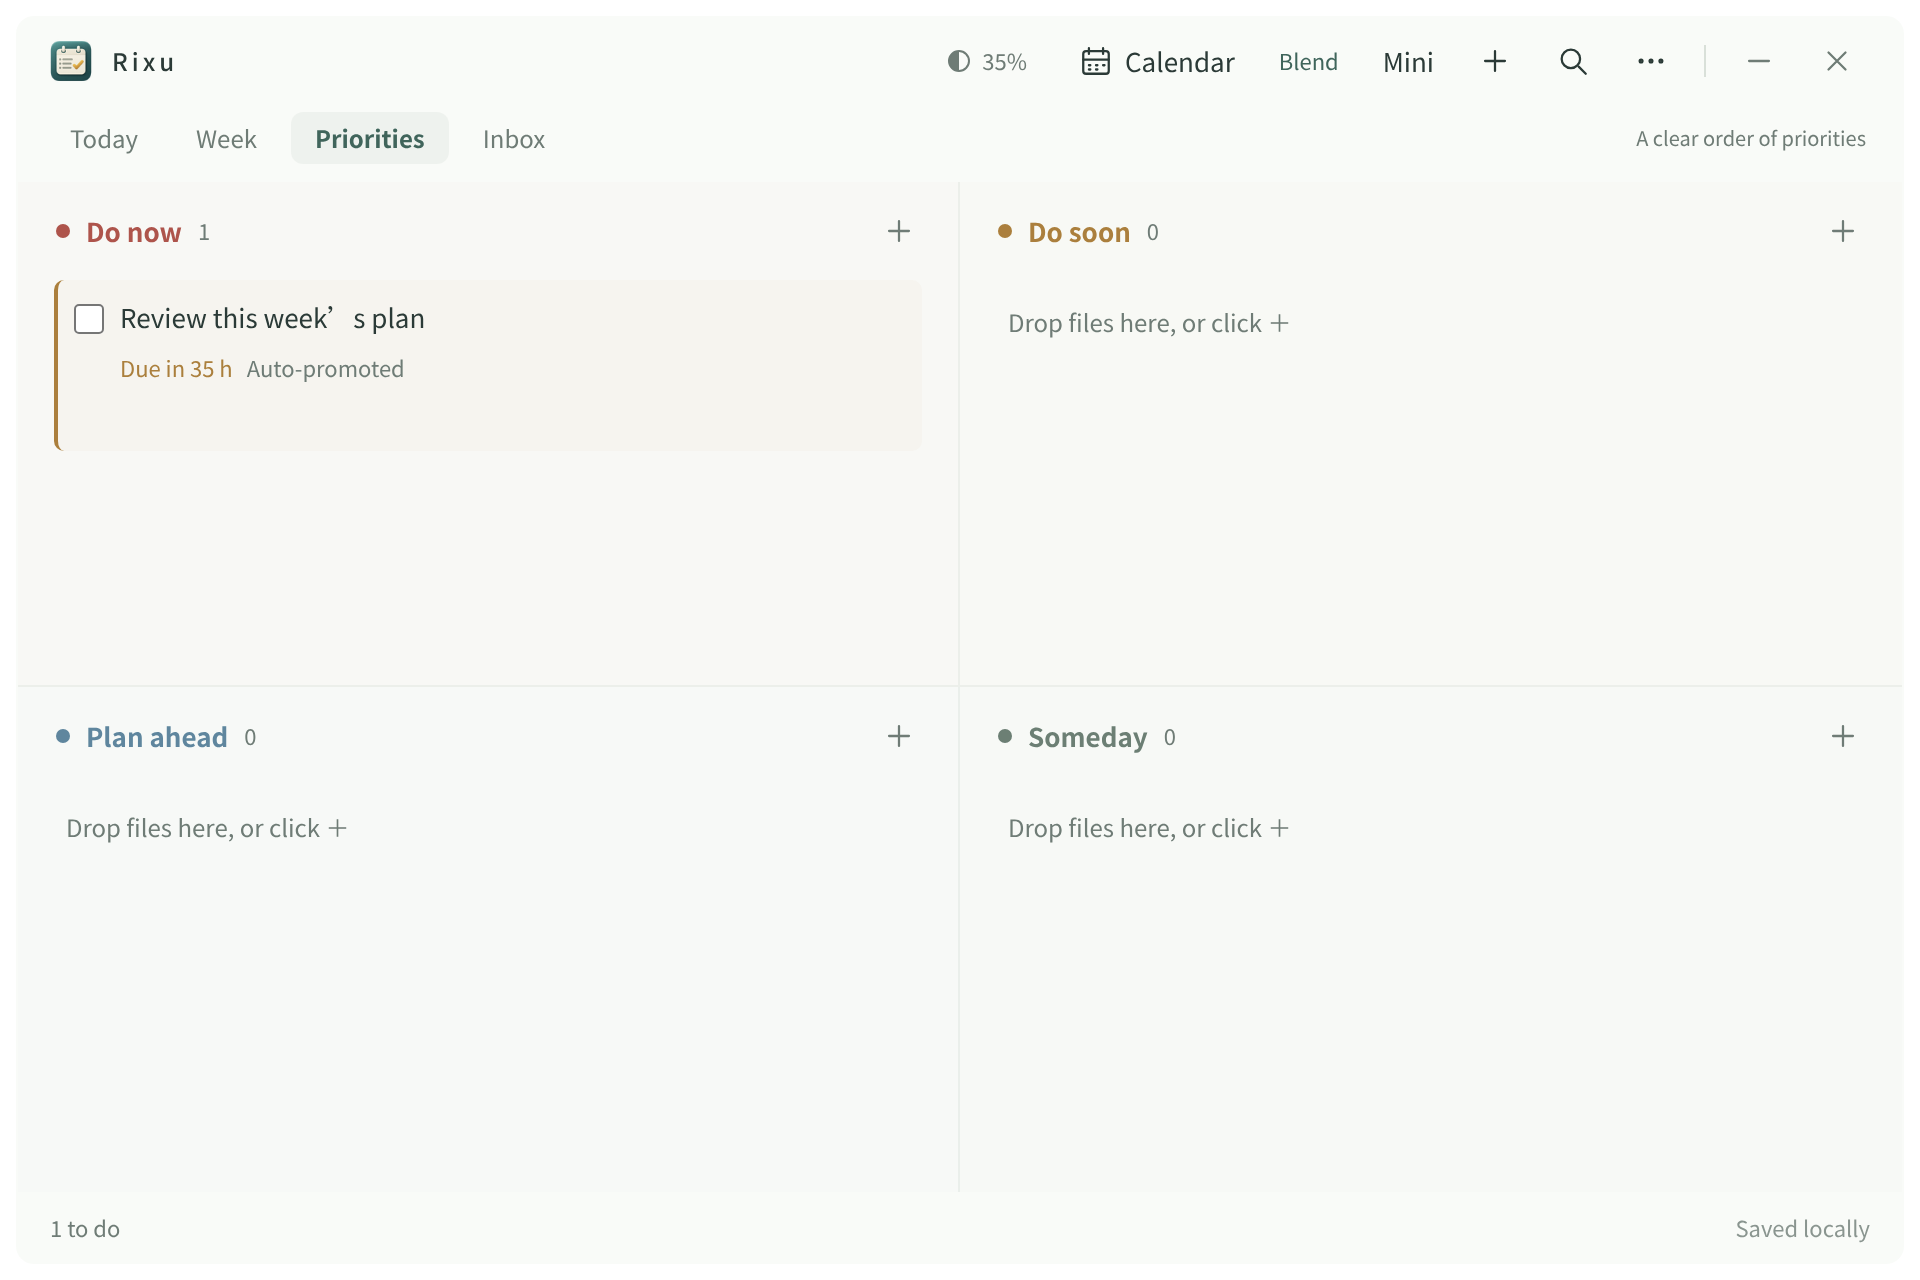
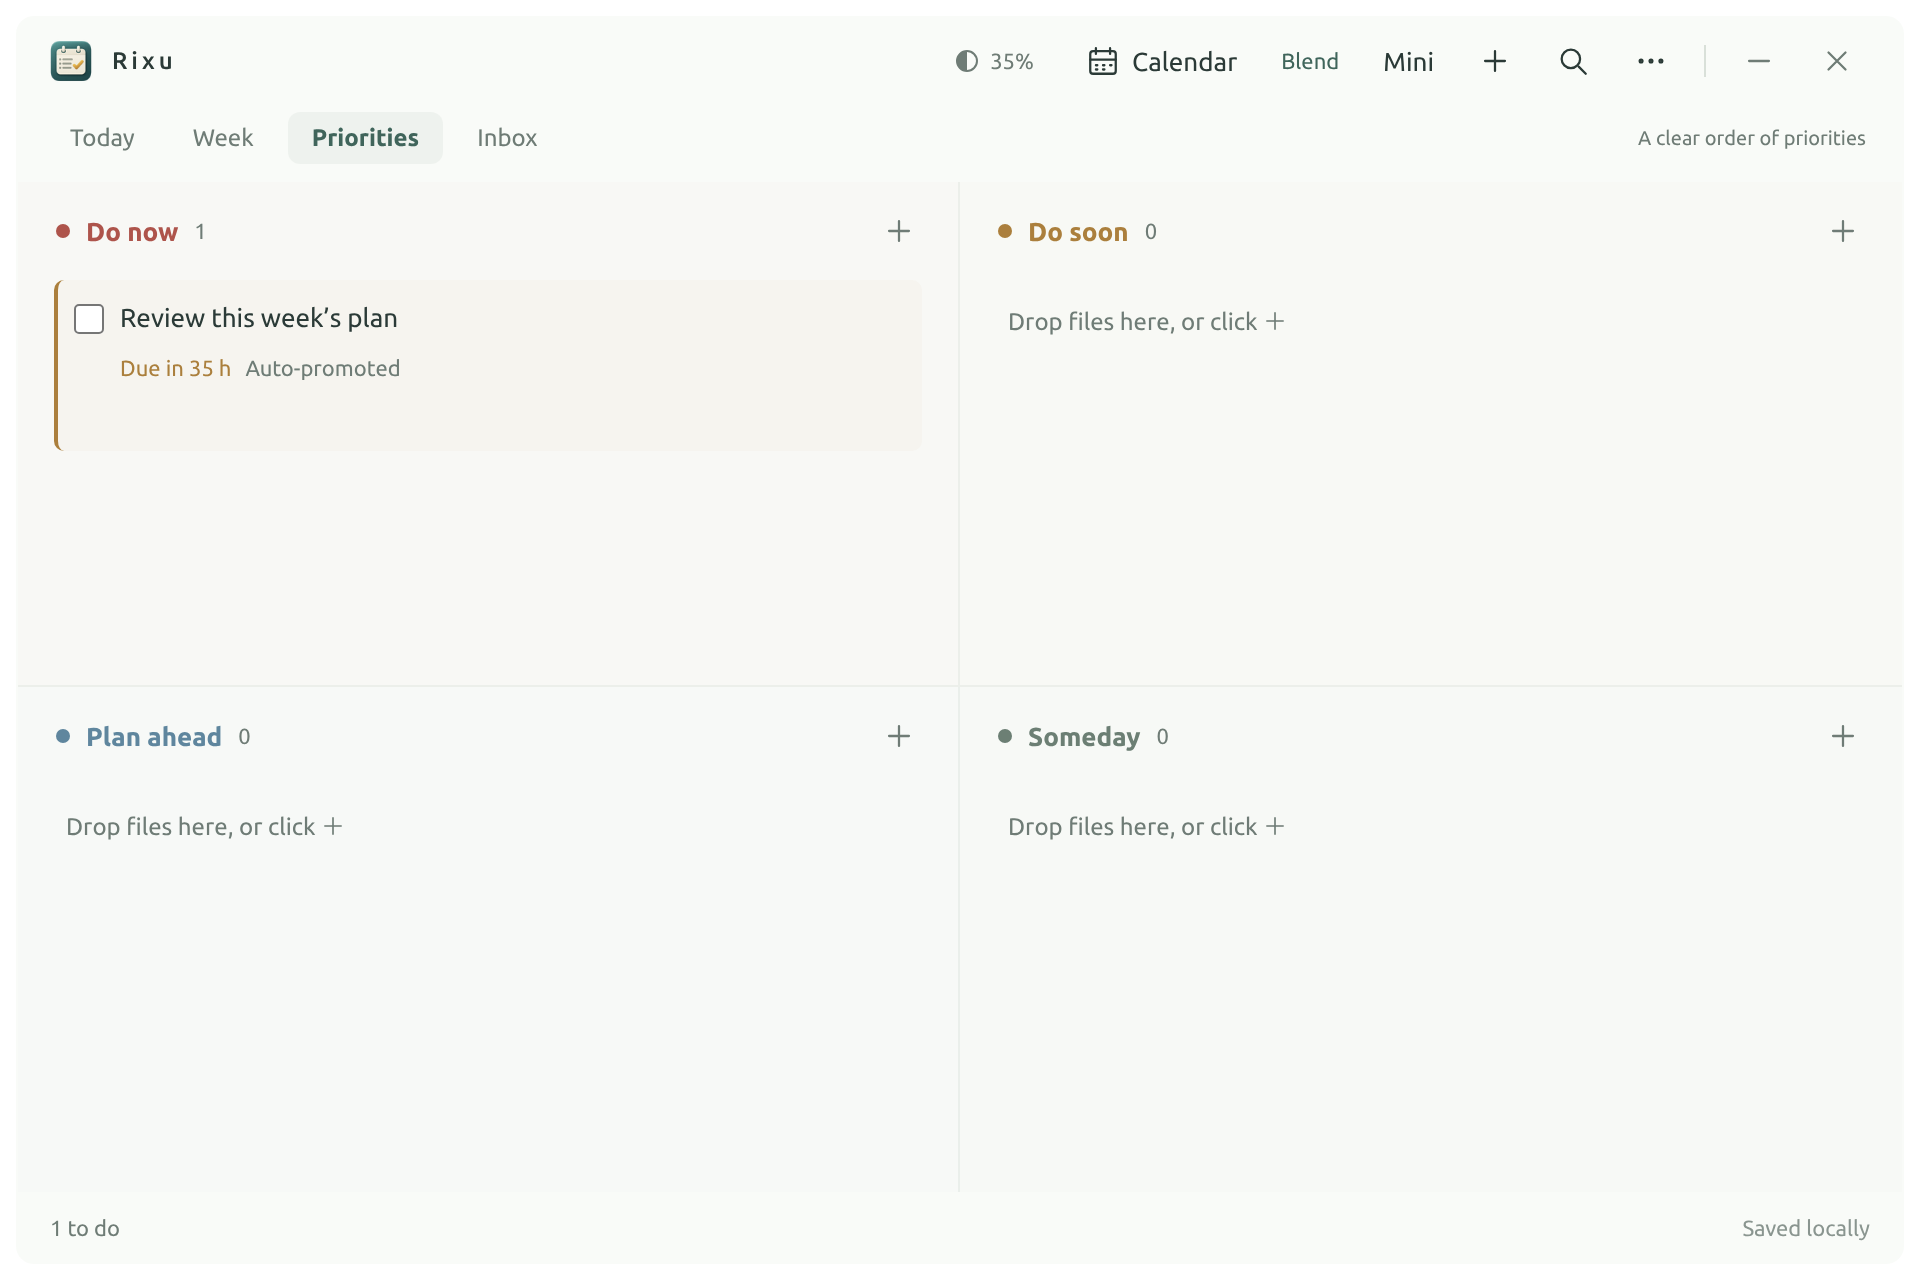
fix: fit English controls and localize the locked indicator

diff --git a/src/renderer/styles.css b/src/renderer/styles.css
@@ -26,5 +26,7 @@ dialog{padding:0;color:var(--ink);background:var(--surface);border:1px solid var
 @media(prefers-color-scheme:dark){:root[data-theme="system"]{--surface-rgb:30,48,40}}
 /* Desktop overlay: color lives in the marks; the wallpaper remains the canvas. */
 .desktop-blend .app-window{border-color:transparent;box-shadow:none;border-radius:9px}.desktop-blend .toolbar,.desktop-blend .statusbar,.desktop-blend .view-tabs{border-color:transparent}.desktop-blend .toolbar{height:44px}.desktop-blend .brand{font-size:12px;letter-spacing:2px}.desktop-blend .brand img{width:23px;height:23px}.desktop-blend .view-tabs{padding:3px 14px 8px}.desktop-blend .view-tabs button{padding:4px 12px}.desktop-blend .zone{background:rgba(var(--zone-rgb),calc(.025 * var(--alpha)));padding-top:14px}.desktop-blend .task{background:transparent}.desktop-blend .task[data-heat="red"],.desktop-blend .task[data-heat="hot"],.desktop-blend .task[data-heat="late"]{background:color-mix(in srgb,var(--tone) calc(4% * var(--alpha)),transparent)}.desktop-blend .task-tools{opacity:0;transition:opacity .12s}.desktop-blend .task:hover .task-tools,.desktop-blend .task:focus-within .task-tools{opacity:var(--text-alpha)}.desktop-blend .view-heading h1{font-size:20px}.desktop-blend .focus-placeholder{border-style:solid;border-color:color-mix(in srgb,var(--line) calc(25% * var(--alpha)),transparent)}
-.desktop-blend.quiet-controls .toolbar-controls,.desktop-blend.quiet-controls .view-tabs,.desktop-blend.quiet-controls .statusbar{opacity:.18;transition:opacity .18s}.desktop-blend.quiet-controls .app-window:hover .toolbar-controls,.desktop-blend.quiet-controls .app-window:hover .view-tabs,.desktop-blend.quiet-controls .app-window:hover .statusbar,.desktop-blend.quiet-controls.keyboard-navigation .app-window:focus-within .toolbar-controls,.desktop-blend.quiet-controls.keyboard-navigation .app-window:focus-within .view-tabs,.desktop-blend.quiet-controls.keyboard-navigation .app-window:focus-within .statusbar{opacity:1}.panel-locked .toolbar-controls,.panel-locked .view-tabs,.panel-locked .statusbar{opacity:0!important}.panel-locked .task-tools{display:none}.panel-locked .brand:after{content:'锁定';font-size:9px;letter-spacing:0;opacity:.6}#blend-toggle{font-size:11px;color:var(--muted)}#blend-toggle[aria-pressed="true"]{color:var(--accent)}.compact-mode #blend-toggle{display:none}.checklist-editor{font-size:12px}.checklist-editor summary{cursor:pointer;color:var(--muted);margin-bottom:9px}.checklist-editor .field{margin-bottom:10px}#checklist-items{display:grid;gap:7px;max-height:150px;overflow:auto}#checklist-items .check-field:has(input:checked) span{text-decoration:line-through;color:var(--muted)}.backup-actions{flex-wrap:wrap}.review-actions{gap:6px!important}.confirm-dialog:has(.review-actions){width:430px}
+.desktop-blend.quiet-controls .toolbar-controls,.desktop-blend.quiet-controls .view-tabs,.desktop-blend.quiet-controls .statusbar{opacity:.18;transition:opacity .18s}.desktop-blend.quiet-controls .app-window:hover .toolbar-controls,.desktop-blend.quiet-controls .app-window:hover .view-tabs,.desktop-blend.quiet-controls .app-window:hover .statusbar,.desktop-blend.quiet-controls.keyboard-navigation .app-window:focus-within .toolbar-controls,.desktop-blend.quiet-controls.keyboard-navigation .app-window:focus-within .view-tabs,.desktop-blend.quiet-controls.keyboard-navigation .app-window:focus-within .statusbar{opacity:1}.panel-locked .toolbar-controls,.panel-locked .view-tabs,.panel-locked .statusbar{opacity:0!important}.panel-locked .task-tools{display:none}.panel-locked .brand:after{content:attr(data-lock-label);font-size:9px;letter-spacing:0;opacity:.6}#blend-toggle{font-size:11px;color:var(--muted)}#blend-toggle[aria-pressed="true"]{color:var(--accent)}.compact-mode #blend-toggle{display:none}.checklist-editor{font-size:12px}.checklist-editor summary{cursor:pointer;color:var(--muted);margin-bottom:9px}.checklist-editor .field{margin-bottom:10px}#checklist-items{display:grid;gap:7px;max-height:150px;overflow:auto}#checklist-items .check-field:has(input:checked) span{text-decoration:line-through;color:var(--muted)}.backup-actions{flex-wrap:wrap}.review-actions{gap:6px!important}.confirm-dialog:has(.review-actions){width:430px}
 @media(prefers-reduced-motion:reduce){.desktop-blend *{transition:none!important}}
+
+:root:lang(en){font-family:system-ui,-apple-system,"Segoe UI",sans-serif}:root:lang(en) .app-menu{width:205px}:root:lang(en) .save-status{flex-shrink:0}

diff --git a/src/renderer/quick.css b/src/renderer/quick.css
@@ -1,1 +1,3 @@
 *{box-sizing:border-box}body{margin:0;padding:16px 22px;background:#f5f7f4;color:#233c39;font:13px "Noto Sans CJK SC",sans-serif}header{display:flex;align-items:center;gap:8px;-webkit-app-region:drag;font-size:12px;color:#667b74}button,input{-webkit-app-region:no-drag;font:inherit}header button{margin-left:auto}button{border:0;background:transparent;color:inherit;cursor:pointer;padding:5px 8px;border-radius:5px}button:hover{background:#dfe8e2}input{width:100%;border:0;border-bottom:1px solid #cfdad3;outline:none;padding:18px 0 14px;font-size:20px;color:#233c39;background:transparent}input:focus{border-color:#45776b}footer{display:flex;align-items:center;justify-content:space-between;margin-top:12px;font-size:11px;color:#65796f}footer button{background:#244e44;color:white;font-size:12px}#quick-error{max-width:360px}
+
+body:lang(en){font-family:system-ui,-apple-system,"Segoe UI",sans-serif}

diff --git a/src/renderer/app.js b/src/renderer/app.js
@@ -40,6 +40,7 @@
     setLanguage(state.settings.language);
     if (languageChanged) {
       translateStatic();
+      $('.brand').dataset.lockLabel = tr('锁定');
       labels = ['马上做', '尽快做', '按计划做', '先放着'].map(value => tr(value));
       repeatLabels = { daily: tr('每天'), weekdays: tr('工作日'), weekly: tr('每周'), monthly: tr('每月') };
       $('#task-dialog-title').textContent = tr(editingId ? '任务详情' : '新建任务');

diff --git a/src/i18n.js b/src/i18n.js
@@ -1,6 +1,7 @@
 (function (root) {
   'use strict';
   const english = {
+  "锁定": "Locked",
   "0 表示未估时": "0 means not estimated",
   "30 分钟后提醒": "Remind in 30 min",
   "30 分钟后提醒，截止时间不变": "Reminder set for 30 minutes; deadline unchanged",
